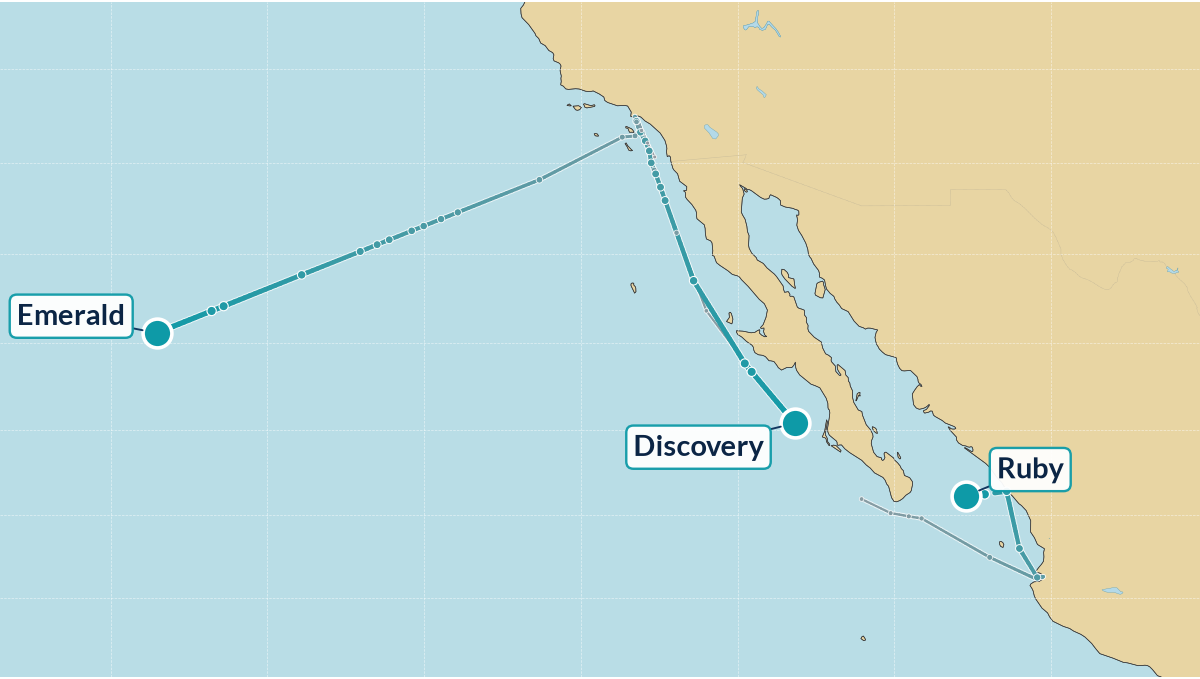
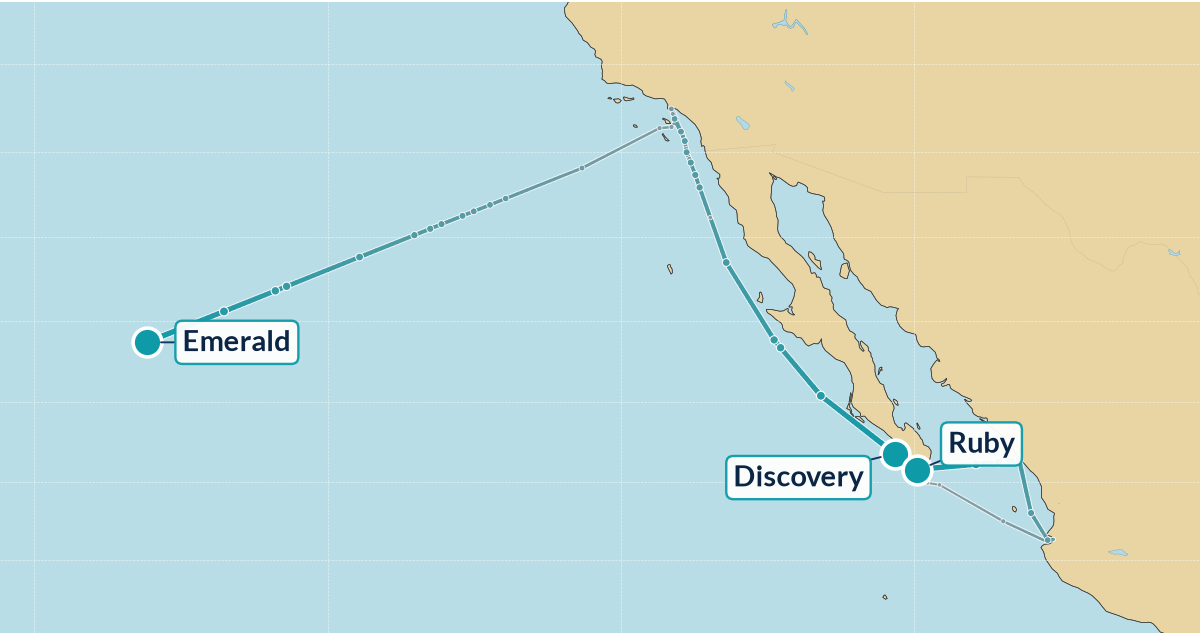
Update 10/19 09:00 PT

diff --git a/index.html b/index.html
@@ -1,48 +1,48 @@
-<!DOCTYPE html><html lang="en"><head><meta charset="utf-8"><meta name="viewport" content="width=device-width, initial-scale=1"><meta http-equiv="refresh" content="1800"><meta name="description" content="Live Princess Cruises fleet tracker"><title>Princess Patter — Sunday, October 18, 2026</title></head>
+<!DOCTYPE html><html lang="en"><head><meta charset="utf-8"><meta name="viewport" content="width=device-width, initial-scale=1"><meta http-equiv="refresh" content="1800"><meta name="description" content="Live Princess Cruises fleet tracker"><title>Princess Patter — Monday, October 19, 2026</title></head>
 <body style="margin:0;padding:0;background-color:#dee2e8;">
-<div style="display:none;max-height:0;overflow:hidden;opacity:0;color:#dee2e8;font-size:1px;line-height:1px;">Sunday, October 18, 2026 — 11:00pm PT | 17 ships | 13 at sea, 4 in port</div>
+<div style="display:none;max-height:0;overflow:hidden;opacity:0;color:#dee2e8;font-size:1px;line-height:1px;">Monday, October 19, 2026 — 8:00am PT | 17 ships | 13 at sea, 4 in port</div>
 <table role="presentation" width="100%" cellpadding="0" cellspacing="0" border="0" bgcolor="#dee2e8" style="background-color:#dee2e8;border-collapse:collapse;"><tr><td align="center" style="padding:16px 8px;">
 <table role="presentation" width="100%" cellpadding="0" cellspacing="0" border="0" bgcolor="#fdfdfb" style="width:100%;max-width:900px;background-color:#fdfdfb;border-collapse:collapse;border:1px solid #d6dae0;">
 <tr><td bgcolor="#1d3a6b" align="left" style="background-color:#1d3a6b;padding:24px 28px 24px 28px;"><div style="font-family:Georgia, 'Times New Roman', Times, serif;font-size:40px;line-height:46px;color:#ffffff;letter-spacing:0.5px;"><span style="color:#a8b6e2;">≋</span>&nbsp;Princess Patter</div></td></tr>
-<tr><td style="padding:0;"><table role="presentation" width="100%" cellpadding="0" cellspacing="0" border="0" style="border-collapse:collapse;"><tr><td height="5" bgcolor="#6a5aa8" style="background-color:#6a5aa8;height:5px;font-size:0;line-height:0;width:60%;">&nbsp;</td><td height="5" bgcolor="#2f6db5" style="background-color:#2f6db5;height:5px;font-size:0;line-height:0;width:40%;">&nbsp;</td></tr></table></td></tr><tr><td bgcolor="#1d3a6b" style="background:linear-gradient(#1d3a6b,#2f6db5);padding:10px 16px 14px;text-align:center;"><img src="regal.png?v=202610190800" alt="Regal Princess" style="width:100%;max-width:640px;height:auto;display:block;margin:0 auto;"></td></tr>
+<tr><td style="padding:0;"><table role="presentation" width="100%" cellpadding="0" cellspacing="0" border="0" style="border-collapse:collapse;"><tr><td height="5" bgcolor="#6a5aa8" style="background-color:#6a5aa8;height:5px;font-size:0;line-height:0;width:60%;">&nbsp;</td><td height="5" bgcolor="#2f6db5" style="background-color:#2f6db5;height:5px;font-size:0;line-height:0;width:40%;">&nbsp;</td></tr></table></td></tr><tr><td bgcolor="#1d3a6b" style="background:linear-gradient(#1d3a6b,#2f6db5);padding:10px 16px 14px;text-align:center;"><img src="regal.png?v=202610190900" alt="Regal Princess" style="width:100%;max-width:640px;height:auto;display:block;margin:0 auto;"></td></tr>
 <tr><td style="padding:22px 20px 6px 20px;">
-<div style="font-family:Georgia, 'Times New Roman', Times, serif;font-style:italic;font-size:20px;line-height:26px;color:#2f6db5;">Good evening!</div>
-<div style="font-family:Georgia, 'Times New Roman', Times, serif;font-weight:bold;font-size:26px;line-height:32px;color:#1d3a6b;padding-top:6px;">Sunday, October 18, 2026</div>
-<div style="font-family:Helvetica, Arial, sans-serif;font-size:16px;line-height:22px;color:#2f6db5;padding-top:4px;">11:00pm PT | 17 ships | 13 at sea, 4 in port</div>
-</td></tr><tr><td style="padding:14px 20px 0 20px;"><div style="font-family:Georgia, 'Times New Roman', Times, serif;font-style:italic;font-weight:bold;font-size:18px;color:#295aa0;padding:0 4px 4px;border-bottom:1px solid #295aa0;">pacific map</div><a href="map.png?v=202610190800"><img src="map.png?v=202610190800" alt="Pacific fleet map" style="width:100%;height:auto;display:block;margin-top:8px;border-radius:12px;border:2px solid #c8dee2;"></a></td></tr>
+<div style="font-family:Georgia, 'Times New Roman', Times, serif;font-style:italic;font-size:20px;line-height:26px;color:#2f6db5;">Good morning!</div>
+<div style="font-family:Georgia, 'Times New Roman', Times, serif;font-weight:bold;font-size:26px;line-height:32px;color:#1d3a6b;padding-top:6px;">Monday, October 19, 2026</div>
+<div style="font-family:Helvetica, Arial, sans-serif;font-size:16px;line-height:22px;color:#2f6db5;padding-top:4px;">8:00am PT | 17 ships | 13 at sea, 4 in port</div>
+</td></tr><tr><td style="padding:14px 20px 0 20px;"><div style="font-family:Georgia, 'Times New Roman', Times, serif;font-style:italic;font-weight:bold;font-size:18px;color:#295aa0;padding:0 4px 4px;border-bottom:1px solid #295aa0;">pacific map</div><a href="map.png?v=202610190900"><img src="map.png?v=202610190900" alt="Pacific fleet map" style="width:100%;height:auto;display:block;margin-top:8px;border-radius:12px;border:2px solid #c8dee2;"></a></td></tr>
 <tr><td style="padding:14px 20px 4px 20px;">
 <table role="presentation" width="100%" cellpadding="0" cellspacing="0" border="0" style="border-collapse:collapse;width:100%;font-family:Helvetica, Arial, sans-serif;font-size:15px;line-height:20px;color:#262c38;">
 <tr bgcolor="#2f6db5" style="background-color:#2f6db5;"><td style="font-size:14px;line-height:18px;font-weight:bold;color:#ffffff;text-align:left;padding:9px 8px;padding-left:10px;" colspan="2">Ship</td><td style="font-size:14px;line-height:18px;font-weight:bold;color:#ffffff;text-align:left;padding:9px 8px;">Where</td><td style="font-size:14px;line-height:18px;font-weight:bold;color:#ffffff;text-align:left;padding:9px 8px;">Next Port</td></tr>
 <tr><td colspan="4" style="padding:14px 4px 4px 4px;border-bottom:1px solid #295aa0;font-family:Georgia, 'Times New Roman', Times, serif;font-style:italic;font-weight:bold;font-size:18px;line-height:22px;color:#295aa0;">canada &amp; new england</td></tr>
-<tr bgcolor="#eef0f3" style="background-color:#eef0f3;"><td width="18" style="padding:7px 0 7px 8px;vertical-align:top;width:18px;color:#1a9a9a;font-size:18px;">&nbsp;</td><td style="padding:7px 8px;vertical-align:top;"><b style="color:#1d3a6b;">Majestic</b></td><td style="padding:7px 8px;vertical-align:top;">At Sea <span style="white-space:nowrap;font-size:12px;color:#707884;" title="Forecast high/low">☁&thinsp;55°</span> <span style="font-size:12px;color:#707884;"><span style="white-space:nowrap;">🌊 7 ft</span> &middot; <span style="white-space:nowrap;">💨 NE 21 kt</span> &middot; <span style="white-space:nowrap;">🚢 21.1 kn</span></span></td><td style="padding:7px 8px;vertical-align:top;">Boston <span style="white-space:nowrap;font-size:12px;color:#707884;" title="Forecast high/low">☁&thinsp;56°/34°</span> <span style="font-size:13px;color:#707884;">(10/19 8am)</span></td></tr>
-<tr bgcolor="#ffffff" style="background-color:#ffffff;"><td width="18" style="padding:7px 0 7px 8px;vertical-align:top;width:18px;color:#1a9a9a;font-size:18px;">&nbsp;</td><td style="padding:7px 8px;vertical-align:top;"><b style="color:#1d3a6b;">Sapphire</b></td><td style="padding:7px 8px;vertical-align:top;">At Sea <span style="white-space:nowrap;font-size:12px;color:#707884;" title="Forecast high/low">☀&thinsp;48°</span> <span style="font-size:12px;color:#707884;"><span style="white-space:nowrap;">🌊 3 ft</span> &middot; <span style="white-space:nowrap;">💨 S 22 kt</span> &middot; <span style="white-space:nowrap;">🚢 16.1 kn</span></span></td><td style="padding:7px 8px;vertical-align:top;">Charlottetown <span style="white-space:nowrap;font-size:12px;color:#707884;" title="Forecast high/low">☁&thinsp;52°/33°</span> <span style="font-size:13px;color:#707884;">(10/19 5am)</span></td></tr>
+<tr bgcolor="#eef0f3" style="background-color:#eef0f3;"><td width="18" style="padding:7px 0 7px 8px;vertical-align:top;width:18px;color:#1a9a9a;font-size:18px;">&nbsp;</td><td style="padding:7px 8px;vertical-align:top;"><b style="color:#1d3a6b;">Majestic</b></td><td style="padding:7px 8px;vertical-align:top;">Boston <span style="white-space:nowrap;font-size:12px;color:#707884;" title="Forecast high/low">☀&thinsp;55°</span> <span style="font-size:13px;color:#707884;">(5pm)</span></td><td style="padding:7px 8px;vertical-align:top;">Portland <span style="white-space:nowrap;font-size:12px;color:#707884;" title="Forecast high/low">☁&thinsp;70°/49°</span> <span style="font-size:13px;color:#707884;">(10/20 4am)</span></td></tr>
+<tr bgcolor="#ffffff" style="background-color:#ffffff;"><td width="18" style="padding:7px 0 7px 8px;vertical-align:top;width:18px;color:#1a9a9a;font-size:18px;">&nbsp;</td><td style="padding:7px 8px;vertical-align:top;"><b style="color:#1d3a6b;">Sapphire</b></td><td style="padding:7px 8px;vertical-align:top;">Charlottetown <span style="white-space:nowrap;font-size:12px;color:#707884;" title="Forecast high/low">☀&thinsp;50°</span> <span style="font-size:13px;color:#707884;">(1pm)</span></td><td style="padding:7px 8px;vertical-align:top;">Saguenay <span style="white-space:nowrap;font-size:12px;color:#707884;" title="Forecast high/low">☁&thinsp;49°/30°</span> <span style="font-size:13px;color:#707884;">(10/21 5am)</span></td></tr>
 <tr><td colspan="4" style="padding:14px 4px 4px 4px;border-bottom:1px solid #295aa0;font-family:Georgia, 'Times New Roman', Times, serif;font-style:italic;font-weight:bold;font-size:18px;line-height:22px;color:#295aa0;">caribbean</td></tr>
-<tr bgcolor="#eef0f3" style="background-color:#eef0f3;"><td width="18" style="padding:7px 0 7px 8px;vertical-align:top;width:18px;color:#1a9a9a;font-size:18px;">&nbsp;</td><td style="padding:7px 8px;vertical-align:top;"><b style="color:#1d3a6b;">Caribbean</b></td><td style="padding:7px 8px;vertical-align:top;">At Sea <span style="white-space:nowrap;font-size:12px;color:#707884;" title="Forecast high/low">☀&thinsp;81°</span> <span style="font-size:12px;color:#707884;"><span style="white-space:nowrap;">🌊 7 ft</span> &middot; <span style="white-space:nowrap;">💨 NE 18 kt</span> &middot; <span style="white-space:nowrap;">🚢 14.4 kn</span></span></td><td style="padding:7px 8px;vertical-align:top;">Oranjestad <span style="white-space:nowrap;font-size:12px;color:#707884;" title="Forecast high/low">⛈&thinsp;87°/79°</span> <span style="font-size:13px;color:#707884;">(10/22 6am)</span></td></tr>
-<tr bgcolor="#ffffff" style="background-color:#ffffff;"><td width="18" style="padding:7px 0 7px 8px;vertical-align:top;width:18px;color:#1a9a9a;font-size:18px;">&nbsp;</td><td style="padding:7px 8px;vertical-align:top;"><b style="color:#1d3a6b;">Coral</b></td><td style="padding:7px 8px;vertical-align:top;">At Sea <span style="white-space:nowrap;font-size:12px;color:#707884;" title="Forecast high/low">☀&thinsp;83°</span> <span style="font-size:12px;color:#707884;"><span style="white-space:nowrap;">🌊 2 ft</span> &middot; <span style="white-space:nowrap;">💨 E 10 kt</span></span></td><td style="padding:7px 8px;vertical-align:top;">Basseterre <span style="white-space:nowrap;font-size:12px;color:#707884;" title="Forecast high/low">🌦&thinsp;86°/78°</span> <span style="font-size:13px;color:#707884;">(10/19 4am)</span></td></tr>
-<tr bgcolor="#eef0f3" style="background-color:#eef0f3;"><td width="18" style="padding:7px 0 7px 8px;vertical-align:top;width:18px;color:#1a9a9a;font-size:18px;">&nbsp;</td><td style="padding:7px 8px;vertical-align:top;"><b style="color:#1d3a6b;">Regal</b></td><td style="padding:7px 8px;vertical-align:top;">At Sea <span style="white-space:nowrap;font-size:12px;color:#707884;" title="Forecast high/low">☁&thinsp;81°</span> <span style="font-size:12px;color:#707884;"><span style="white-space:nowrap;">🌊 5 ft</span> &middot; <span style="white-space:nowrap;">💨 NE 14 kt</span></span></td><td style="padding:7px 8px;vertical-align:top;">Amber Cove <span style="font-size:13px;color:#707884;">(10/21 5am)</span></td></tr>
-<tr bgcolor="#ffffff" style="background-color:#ffffff;"><td width="18" style="padding:7px 0 7px 8px;vertical-align:top;width:18px;color:#1a9a9a;font-size:18px;">&nbsp;</td><td style="padding:7px 8px;vertical-align:top;"><b style="color:#1d3a6b;">Star</b></td><td style="padding:7px 8px;vertical-align:top;">At Sea <span style="white-space:nowrap;font-size:12px;color:#707884;" title="Forecast high/low">☀&thinsp;85°</span> <span style="font-size:12px;color:#707884;"><span style="white-space:nowrap;">🌊 3 ft</span> &middot; <span style="white-space:nowrap;">💨 ESE 11 kt</span> &middot; <span style="white-space:nowrap;">🚢 21.2 kn</span></span></td><td style="padding:7px 8px;vertical-align:top;">Fort Lauderdale <span style="white-space:nowrap;font-size:12px;color:#707884;" title="Forecast high/low">🌦&thinsp;79°/67°</span> <span style="font-size:13px;color:#707884;">(10/20 3am)</span></td></tr>
+<tr bgcolor="#eef0f3" style="background-color:#eef0f3;"><td width="18" style="padding:7px 0 7px 8px;vertical-align:top;width:18px;color:#1a9a9a;font-size:18px;">&nbsp;</td><td style="padding:7px 8px;vertical-align:top;"><b style="color:#1d3a6b;">Caribbean</b></td><td style="padding:7px 8px;vertical-align:top;">At Sea <span style="white-space:nowrap;font-size:12px;color:#707884;" title="Forecast high/low">☀&thinsp;82°</span> <span style="font-size:12px;color:#707884;"><span style="white-space:nowrap;">🌊 8 ft</span> &middot; <span style="white-space:nowrap;">💨 ENE 15 kt</span> &middot; <span style="white-space:nowrap;">🚢 14.0 kn</span></span></td><td style="padding:7px 8px;vertical-align:top;">Oranjestad <span style="white-space:nowrap;font-size:12px;color:#707884;" title="Forecast high/low">⛈&thinsp;87°/79°</span> <span style="font-size:13px;color:#707884;">(10/22 6am)</span></td></tr>
+<tr bgcolor="#ffffff" style="background-color:#ffffff;"><td width="18" style="padding:7px 0 7px 8px;vertical-align:top;width:18px;color:#1a9a9a;font-size:18px;">&nbsp;</td><td style="padding:7px 8px;vertical-align:top;"><b style="color:#1d3a6b;">Coral</b></td><td style="padding:7px 8px;vertical-align:top;">Basseterre <span style="white-space:nowrap;font-size:12px;color:#707884;" title="Forecast high/low">🌦&thinsp;85°</span> <span style="font-size:13px;color:#707884;">(1pm)</span></td><td style="padding:7px 8px;vertical-align:top;">Fort-de-France <span style="white-space:nowrap;font-size:12px;color:#707884;" title="Forecast high/low">🌦&thinsp;87°/77°</span> <span style="font-size:13px;color:#707884;">(10/20 4am)</span></td></tr>
+<tr bgcolor="#eef0f3" style="background-color:#eef0f3;"><td width="18" style="padding:7px 0 7px 8px;vertical-align:top;width:18px;color:#1a9a9a;font-size:18px;">&nbsp;</td><td style="padding:7px 8px;vertical-align:top;"><b style="color:#1d3a6b;">Regal</b></td><td style="padding:7px 8px;vertical-align:top;">At Sea <span style="white-space:nowrap;font-size:12px;color:#707884;" title="Forecast high/low">☁&thinsp;80°</span> <span style="font-size:12px;color:#707884;"><span style="white-space:nowrap;">🌊 5 ft</span> &middot; <span style="white-space:nowrap;">💨 NE 16 kt</span></span></td><td style="padding:7px 8px;vertical-align:top;">Amber Cove <span style="font-size:13px;color:#707884;">(10/21 5am)</span></td></tr>
+<tr bgcolor="#ffffff" style="background-color:#ffffff;"><td width="18" style="padding:7px 0 7px 8px;vertical-align:top;width:18px;color:#1a9a9a;font-size:18px;">&nbsp;</td><td style="padding:7px 8px;vertical-align:top;"><b style="color:#1d3a6b;">Star</b></td><td style="padding:7px 8px;vertical-align:top;">At Sea <span style="white-space:nowrap;font-size:12px;color:#707884;" title="Forecast high/low">⛈&thinsp;79°</span> <span style="font-size:12px;color:#707884;"><span style="white-space:nowrap;">🌊 2 ft</span> &middot; <span style="white-space:nowrap;">💨 ENE 10 kt</span> &middot; <span style="white-space:nowrap;">🚢 15.5 kn</span></span></td><td style="padding:7px 8px;vertical-align:top;">Fort Lauderdale <span style="white-space:nowrap;font-size:12px;color:#707884;" title="Forecast high/low">🌦&thinsp;79°/67°</span> <span style="font-size:13px;color:#707884;">(10/20 3am)</span></td></tr>
 <tr><td colspan="4" style="padding:14px 4px 4px 4px;border-bottom:1px solid #295aa0;font-family:Georgia, 'Times New Roman', Times, serif;font-style:italic;font-weight:bold;font-size:18px;line-height:22px;color:#295aa0;">hawaii</td></tr>
-<tr bgcolor="#eef0f3" style="background-color:#eef0f3;"><td width="18" style="padding:7px 0 7px 8px;vertical-align:top;width:18px;color:#1a9a9a;font-size:18px;">&nbsp;</td><td style="padding:7px 8px;vertical-align:top;"><b style="color:#1d3a6b;">Emerald</b></td><td style="padding:7px 8px;vertical-align:top;">At Sea <span style="white-space:nowrap;font-size:12px;color:#707884;" title="Forecast high/low">☀&thinsp;68°</span> <span style="font-size:12px;color:#707884;"><span style="white-space:nowrap;">🌊 8 ft</span> &middot; <span style="white-space:nowrap;">💨 NE 14 kt</span> &middot; <span style="white-space:nowrap;">🚢 17.7 kn</span></span></td><td style="padding:7px 8px;vertical-align:top;">Hilo <span style="white-space:nowrap;font-size:12px;color:#707884;" title="Forecast high/low">🌦&thinsp;79°/65°</span> <span style="font-size:13px;color:#707884;">(10/22 11am)</span></td></tr>
+<tr bgcolor="#eef0f3" style="background-color:#eef0f3;"><td width="18" style="padding:7px 0 7px 8px;vertical-align:top;width:18px;color:#1a9a9a;font-size:18px;">&nbsp;</td><td style="padding:7px 8px;vertical-align:top;"><b style="color:#1d3a6b;">Emerald</b></td><td style="padding:7px 8px;vertical-align:top;">At Sea <span style="white-space:nowrap;font-size:12px;color:#707884;" title="Forecast high/low">☀&thinsp;70°</span> <span style="font-size:12px;color:#707884;"><span style="white-space:nowrap;">🌊 8 ft</span> &middot; <span style="white-space:nowrap;">💨 NE 15 kt</span> &middot; <span style="white-space:nowrap;">🚢 17.6 kn</span></span></td><td style="padding:7px 8px;vertical-align:top;">Hilo <span style="white-space:nowrap;font-size:12px;color:#707884;" title="Forecast high/low">🌦&thinsp;79°/65°</span> <span style="font-size:13px;color:#707884;">(10/22 11am)</span></td></tr>
 <tr><td colspan="4" style="padding:14px 4px 4px 4px;border-bottom:1px solid #295aa0;font-family:Georgia, 'Times New Roman', Times, serif;font-style:italic;font-weight:bold;font-size:18px;line-height:22px;color:#295aa0;">mexican riviera</td></tr>
-<tr bgcolor="#eef0f3" style="background-color:#eef0f3;"><td width="18" style="padding:7px 0 7px 8px;vertical-align:top;width:18px;color:#1a9a9a;font-size:18px;">&nbsp;</td><td style="padding:7px 8px;vertical-align:top;"><b style="color:#1d3a6b;">Discovery</b></td><td style="padding:7px 8px;vertical-align:top;">At Sea <span style="white-space:nowrap;font-size:12px;color:#707884;" title="Forecast high/low">☀&thinsp;81°</span> <span style="font-size:12px;color:#707884;"><span style="white-space:nowrap;">🌊 7 ft</span> &middot; <span style="white-space:nowrap;">💨 SW 3 kt</span> &middot; <span style="white-space:nowrap;">🚢 19.3 kn</span></span></td><td style="padding:7px 8px;vertical-align:top;">Cabo San Lucas <span style="white-space:nowrap;font-size:12px;color:#707884;" title="Forecast high/low">⛈&thinsp;93°/77°</span> <span style="font-size:13px;color:#707884;">(10/19 12pm)</span></td></tr>
-<tr bgcolor="#ffffff" style="background-color:#ffffff;"><td width="18" style="padding:7px 0 7px 8px;vertical-align:top;width:18px;color:#1a9a9a;font-size:18px;">&nbsp;</td><td style="padding:7px 8px;vertical-align:top;"><b style="color:#1d3a6b;">Ruby</b></td><td style="padding:7px 8px;vertical-align:top;">At Sea <span style="white-space:nowrap;font-size:12px;color:#707884;" title="Forecast high/low">☁&thinsp;87°</span> <span style="font-size:12px;color:#707884;"><span style="white-space:nowrap;">🌊 7 ft</span> &middot; <span style="white-space:nowrap;">💨 NNE 8 kt</span> &middot; <span style="white-space:nowrap;">🚢 16.8 kn</span></span></td><td style="padding:7px 8px;vertical-align:top;">Cabo San Lucas <span style="white-space:nowrap;font-size:12px;color:#707884;" title="Forecast high/low">🌦&thinsp;91°/77°</span> <span style="font-size:13px;color:#707884;">(10/20 7am)</span></td></tr>
+<tr bgcolor="#eef0f3" style="background-color:#eef0f3;"><td width="18" style="padding:7px 0 7px 8px;vertical-align:top;width:18px;color:#1a9a9a;font-size:18px;">&nbsp;</td><td style="padding:7px 8px;vertical-align:top;"><b style="color:#1d3a6b;">Discovery</b></td><td style="padding:7px 8px;vertical-align:top;">At Sea <span style="white-space:nowrap;font-size:12px;color:#707884;" title="Forecast high/low">☀&thinsp;85°</span> <span style="font-size:12px;color:#707884;"><span style="white-space:nowrap;">🌊 6 ft</span> &middot; <span style="white-space:nowrap;">💨 N 12 kt</span> &middot; <span style="white-space:nowrap;">🚢 19.4 kn</span></span></td><td style="padding:7px 8px;vertical-align:top;">Cabo San Lucas <span style="white-space:nowrap;font-size:12px;color:#707884;" title="Forecast high/low">⛈&thinsp;93°/77°</span> <span style="font-size:13px;color:#707884;">(10/19 12pm)</span></td></tr>
+<tr bgcolor="#ffffff" style="background-color:#ffffff;"><td width="18" style="padding:7px 0 7px 8px;vertical-align:top;width:18px;color:#1a9a9a;font-size:18px;">&nbsp;</td><td style="padding:7px 8px;vertical-align:top;"><b style="color:#1d3a6b;">Ruby</b></td><td style="padding:7px 8px;vertical-align:top;">At Sea <span style="white-space:nowrap;font-size:12px;color:#707884;" title="Forecast high/low">☀&thinsp;85°</span> <span style="font-size:12px;color:#707884;"><span style="white-space:nowrap;">🌊 7 ft</span> &middot; <span style="white-space:nowrap;">💨 SW 2 kt</span> &middot; <span style="white-space:nowrap;">🚢 14.3 kn</span></span></td><td style="padding:7px 8px;vertical-align:top;">Cabo San Lucas <span style="white-space:nowrap;font-size:12px;color:#707884;" title="Forecast high/low">🌦&thinsp;91°/77°</span> <span style="font-size:13px;color:#707884;">(10/20 7am)</span></td></tr>
 <tr><td colspan="4" style="padding:14px 4px 4px 4px;border-bottom:1px solid #295aa0;font-family:Georgia, 'Times New Roman', Times, serif;font-style:italic;font-weight:bold;font-size:18px;line-height:22px;color:#295aa0;">asia</td></tr>
-<tr bgcolor="#eef0f3" style="background-color:#eef0f3;"><td width="18" style="padding:7px 0 7px 8px;vertical-align:top;width:18px;color:#1a9a9a;font-size:18px;">&nbsp;</td><td style="padding:7px 8px;vertical-align:top;"><b style="color:#1d3a6b;">Diamond</b></td><td style="padding:7px 8px;vertical-align:top;">Yokohama <span style="white-space:nowrap;font-size:12px;color:#707884;" title="Forecast high/low">🌙&thinsp;69°</span> <span style="font-size:13px;color:#707884;">(11pm)</span></td><td style="padding:7px 8px;vertical-align:top;">Nagasaki <span style="white-space:nowrap;font-size:12px;color:#707884;" title="Forecast high/low">⛅&thinsp;80°/71°</span> <span style="font-size:13px;color:#707884;">(10/20 6pm)</span></td></tr>
+<tr bgcolor="#eef0f3" style="background-color:#eef0f3;"><td width="18" style="padding:7px 0 7px 8px;vertical-align:top;width:18px;color:#1a9a9a;font-size:18px;">&nbsp;</td><td style="padding:7px 8px;vertical-align:top;"><b style="color:#1d3a6b;">Diamond</b></td><td style="padding:7px 8px;vertical-align:top;">At Sea <span style="white-space:nowrap;font-size:12px;color:#707884;" title="Forecast high/low">🌧&thinsp;76°</span> <span style="font-size:12px;color:#707884;"><span style="white-space:nowrap;">🌊 4 ft</span> &middot; <span style="white-space:nowrap;">💨 SSW 8 kt</span> &middot; <span style="white-space:nowrap;">🚢 19.9 kn</span></span></td><td style="padding:7px 8px;vertical-align:top;">Nagasaki <span style="white-space:nowrap;font-size:12px;color:#707884;" title="Forecast high/low">⛅&thinsp;80°/71°</span> <span style="font-size:13px;color:#707884;">(10/20 6pm)</span></td></tr>
 <tr bgcolor="#ffffff" style="background-color:#ffffff;"><td width="18" style="padding:7px 0 7px 8px;vertical-align:top;width:18px;color:#1a9a9a;font-size:18px;">&nbsp;</td><td style="padding:7px 8px;vertical-align:top;"><b style="color:#1d3a6b;">Royal</b></td><td style="padding:7px 8px;vertical-align:top;">Singapore <span style="font-size:13px;color:#707884;">(Drydock)</span></td><td style="padding:7px 8px;vertical-align:top;">Drydock <span style="font-size:13px;color:#707884;">(to 11/1)</span></td></tr>
 <tr><td colspan="4" style="padding:14px 4px 4px 4px;border-bottom:1px solid #295aa0;font-family:Georgia, 'Times New Roman', Times, serif;font-style:italic;font-weight:bold;font-size:18px;line-height:22px;color:#295aa0;">australia &amp; new zealand</td></tr>
-<tr bgcolor="#eef0f3" style="background-color:#eef0f3;"><td width="18" style="padding:7px 0 7px 8px;vertical-align:top;width:18px;color:#1a9a9a;font-size:18px;">&nbsp;</td><td style="padding:7px 8px;vertical-align:top;"><b style="color:#1d3a6b;">Crown</b></td><td style="padding:7px 8px;vertical-align:top;">At Sea <span style="white-space:nowrap;font-size:12px;color:#707884;" title="Forecast high/low">🌙&thinsp;68°</span> <span style="font-size:12px;color:#707884;"><span style="white-space:nowrap;">🌊 8 ft</span> &middot; <span style="white-space:nowrap;">💨 S 18 kt</span> &middot; <span style="white-space:nowrap;">🚢 20.3 kn</span></span></td><td style="padding:7px 8px;vertical-align:top;">Broome <span style="white-space:nowrap;font-size:12px;color:#707884;" title="Forecast high/low">☀&thinsp;88°/81°</span> <span style="font-size:13px;color:#707884;">(10/20 7pm)</span></td></tr>
+<tr bgcolor="#eef0f3" style="background-color:#eef0f3;"><td width="18" style="padding:7px 0 7px 8px;vertical-align:top;width:18px;color:#1a9a9a;font-size:18px;">&nbsp;</td><td style="padding:7px 8px;vertical-align:top;"><b style="color:#1d3a6b;">Crown</b></td><td style="padding:7px 8px;vertical-align:top;">At Sea <span style="white-space:nowrap;font-size:12px;color:#707884;" title="Forecast high/low">🌙&thinsp;71°</span> <span style="font-size:12px;color:#707884;"><span style="white-space:nowrap;">🌊 9 ft</span> &middot; <span style="white-space:nowrap;">💨 S 19 kt</span> &middot; <span style="white-space:nowrap;">🚢 20.1 kn</span></span></td><td style="padding:7px 8px;vertical-align:top;">Broome <span style="white-space:nowrap;font-size:12px;color:#707884;" title="Forecast high/low">☀&thinsp;88°/81°</span> <span style="font-size:13px;color:#707884;">(10/20 7pm)</span></td></tr>
 <tr><td colspan="4" style="padding:14px 4px 4px 4px;border-bottom:1px solid #295aa0;font-family:Georgia, 'Times New Roman', Times, serif;font-style:italic;font-weight:bold;font-size:18px;line-height:22px;color:#295aa0;">mediterranean</td></tr>
-<tr bgcolor="#eef0f3" style="background-color:#eef0f3;"><td width="18" style="padding:7px 0 7px 8px;vertical-align:top;width:18px;color:#1a9a9a;font-size:18px;">&nbsp;</td><td style="padding:7px 8px;vertical-align:top;"><b style="color:#1d3a6b;">Enchanted</b></td><td style="padding:7px 8px;vertical-align:top;">At Sea <span style="white-space:nowrap;font-size:12px;color:#707884;" title="Forecast high/low">☁&thinsp;73°</span> <span style="font-size:12px;color:#707884;"><span style="white-space:nowrap;">🌊 2 ft</span> &middot; <span style="white-space:nowrap;">💨 S 6 kt</span> &middot; <span style="white-space:nowrap;">🚢 18.7 kn</span></span></td><td style="padding:7px 8px;vertical-align:top;">Civitavecchia <span style="white-space:nowrap;font-size:12px;color:#707884;" title="Forecast high/low">☁&thinsp;73°/62°</span> <span style="font-size:13px;color:#707884;">(10/19 9pm)</span></td></tr>
-<tr bgcolor="#ffffff" style="background-color:#ffffff;"><td width="18" style="padding:7px 0 7px 8px;vertical-align:top;width:18px;color:#1a9a9a;font-size:18px;">&nbsp;</td><td style="padding:7px 8px;vertical-align:top;"><b style="color:#1d3a6b;">Sun</b></td><td style="padding:7px 8px;vertical-align:top;">At Sea <span style="white-space:nowrap;font-size:12px;color:#707884;" title="Forecast high/low">☀&thinsp;72°</span> <span style="font-size:12px;color:#707884;"><span style="white-space:nowrap;">🌊 2 ft</span> &middot; <span style="white-space:nowrap;">💨 SE 11 kt</span> &middot; <span style="white-space:nowrap;">🚢 18.6 kn</span></span></td><td style="padding:7px 8px;vertical-align:top;">Chania <span style="white-space:nowrap;font-size:12px;color:#707884;" title="Forecast high/low">☁&thinsp;72°/59°</span> <span style="font-size:13px;color:#707884;">(10/19 10pm)</span></td></tr>
+<tr bgcolor="#eef0f3" style="background-color:#eef0f3;"><td width="18" style="padding:7px 0 7px 8px;vertical-align:top;width:18px;color:#1a9a9a;font-size:18px;">&nbsp;</td><td style="padding:7px 8px;vertical-align:top;"><b style="color:#1d3a6b;">Enchanted</b></td><td style="padding:7px 8px;vertical-align:top;">At Sea <span style="white-space:nowrap;font-size:12px;color:#707884;" title="Forecast high/low">☀&thinsp;72°</span> <span style="font-size:12px;color:#707884;"><span style="white-space:nowrap;">🌊 1 ft</span> &middot; <span style="white-space:nowrap;">💨 ESE 9 kt</span> &middot; <span style="white-space:nowrap;">🚢 18.1 kn</span></span></td><td style="padding:7px 8px;vertical-align:top;">Civitavecchia <span style="white-space:nowrap;font-size:12px;color:#707884;" title="Forecast high/low">☁&thinsp;73°/62°</span> <span style="font-size:13px;color:#707884;">(10/19 9pm)</span></td></tr>
+<tr bgcolor="#ffffff" style="background-color:#ffffff;"><td width="18" style="padding:7px 0 7px 8px;vertical-align:top;width:18px;color:#1a9a9a;font-size:18px;">&nbsp;</td><td style="padding:7px 8px;vertical-align:top;"><b style="color:#1d3a6b;">Sun</b></td><td style="padding:7px 8px;vertical-align:top;">At Sea <span style="white-space:nowrap;font-size:12px;color:#707884;" title="Forecast high/low">🌙&thinsp;70°</span> <span style="font-size:12px;color:#707884;"><span style="white-space:nowrap;">🌊 0 ft</span> &middot; <span style="white-space:nowrap;">💨 NW 2 kt</span> &middot; <span style="white-space:nowrap;">🚢 18.6 kn</span></span></td><td style="padding:7px 8px;vertical-align:top;">Chania <span style="white-space:nowrap;font-size:12px;color:#707884;" title="Forecast high/low">☁&thinsp;72°/59°</span> <span style="font-size:13px;color:#707884;">(10/19 10pm)</span></td></tr>
 <tr><td colspan="4" style="padding:14px 4px 4px 4px;border-bottom:1px solid #295aa0;font-family:Georgia, 'Times New Roman', Times, serif;font-style:italic;font-weight:bold;font-size:18px;line-height:22px;color:#295aa0;">northern europe</td></tr>
-<tr bgcolor="#eef0f3" style="background-color:#eef0f3;"><td width="18" style="padding:7px 0 7px 8px;vertical-align:top;width:18px;color:#1a9a9a;font-size:18px;">&nbsp;</td><td style="padding:7px 8px;vertical-align:top;"><b style="color:#1d3a6b;">Sky</b></td><td style="padding:7px 8px;vertical-align:top;">Stavanger <span style="white-space:nowrap;font-size:12px;color:#707884;" title="Forecast high/low">☀&thinsp;53°</span></td><td style="padding:7px 8px;vertical-align:top;">Molde <span style="white-space:nowrap;font-size:12px;color:#707884;" title="Forecast high/low">☁&thinsp;53°/40°</span> <span style="font-size:13px;color:#707884;">(10/19 11pm)</span></td></tr>
+<tr bgcolor="#eef0f3" style="background-color:#eef0f3;"><td width="18" style="padding:7px 0 7px 8px;vertical-align:top;width:18px;color:#1a9a9a;font-size:18px;">&nbsp;</td><td style="padding:7px 8px;vertical-align:top;"><b style="color:#1d3a6b;">Sky</b></td><td style="padding:7px 8px;vertical-align:top;">At Sea <span style="white-space:nowrap;font-size:12px;color:#707884;" title="Forecast high/low">☁&thinsp;53°</span> <span style="font-size:12px;color:#707884;"><span style="white-space:nowrap;">🌊 5 ft</span> &middot; <span style="white-space:nowrap;">💨 SSE 18 kt</span> &middot; <span style="white-space:nowrap;">🚢 16.6 kn</span></span></td><td style="padding:7px 8px;vertical-align:top;">Molde <span style="white-space:nowrap;font-size:12px;color:#707884;" title="Forecast high/low">☁&thinsp;53°/40°</span> <span style="font-size:13px;color:#707884;">(10/19 11pm)</span></td></tr>
 <tr><td colspan="4" style="padding:14px 4px 4px 4px;border-bottom:1px solid #295aa0;font-family:Georgia, 'Times New Roman', Times, serif;font-style:italic;font-weight:bold;font-size:18px;line-height:22px;color:#295aa0;">tahiti &amp; south pacific</td></tr>
-<tr bgcolor="#eef0f3" style="background-color:#eef0f3;"><td width="18" style="padding:7px 0 7px 8px;vertical-align:top;width:18px;color:#1a9a9a;font-size:18px;">&nbsp;</td><td style="padding:7px 8px;vertical-align:top;"><b style="color:#1d3a6b;">Grand</b></td><td style="padding:7px 8px;vertical-align:top;">At Sea <span style="white-space:nowrap;font-size:12px;color:#707884;" title="Forecast high/low">☁&thinsp;84°</span> <span style="font-size:12px;color:#707884;"><span style="white-space:nowrap;">🌊 6 ft</span> &middot; <span style="white-space:nowrap;">💨 NW 4 kt</span> &middot; <span style="white-space:nowrap;">🚢 18.2 kn</span></span></td><td style="padding:7px 8px;vertical-align:top;">Apia <span style="white-space:nowrap;font-size:12px;color:#707884;" title="Forecast high/low">🌦&thinsp;83°/72°</span> <span style="font-size:13px;color:#707884;">(10/20 12pm)</span></td></tr>
+<tr bgcolor="#eef0f3" style="background-color:#eef0f3;"><td width="18" style="padding:7px 0 7px 8px;vertical-align:top;width:18px;color:#1a9a9a;font-size:18px;">&nbsp;</td><td style="padding:7px 8px;vertical-align:top;"><b style="color:#1d3a6b;">Grand</b></td><td style="padding:7px 8px;vertical-align:top;">At Sea <span style="white-space:nowrap;font-size:12px;color:#707884;" title="Forecast high/low">☁&thinsp;82°</span> <span style="font-size:12px;color:#707884;"><span style="white-space:nowrap;">🌊 6 ft</span> &middot; <span style="white-space:nowrap;">💨 SSE 2 kt</span> &middot; <span style="white-space:nowrap;">🚢 19.0 kn</span></span></td><td style="padding:7px 8px;vertical-align:top;">Apia <span style="white-space:nowrap;font-size:12px;color:#707884;" title="Forecast high/low">🌦&thinsp;83°/72°</span> <span style="font-size:13px;color:#707884;">(10/20 12pm)</span></td></tr>
 <tr><td colspan="4" style="padding:14px 4px 4px 4px;border-bottom:1px solid #295aa0;font-family:Georgia, 'Times New Roman', Times, serif;font-style:italic;font-weight:bold;font-size:18px;line-height:22px;color:#295aa0;">transatlantic</td></tr>
-<tr bgcolor="#eef0f3" style="background-color:#eef0f3;"><td width="18" style="padding:7px 0 7px 8px;vertical-align:top;width:18px;color:#1a9a9a;font-size:18px;">&nbsp;</td><td style="padding:7px 8px;vertical-align:top;"><b style="color:#1d3a6b;">Island</b></td><td style="padding:7px 8px;vertical-align:top;">Cartagena <span style="white-space:nowrap;font-size:12px;color:#707884;" title="Forecast high/low">☁&thinsp;87°</span> <span style="font-size:13px;color:#707884;">(10/19 7am)</span></td><td style="padding:7px 8px;vertical-align:top;">Palma <span style="white-space:nowrap;font-size:12px;color:#707884;" title="Forecast high/low">⛈&thinsp;75°/65°</span> <span style="font-size:13px;color:#707884;">(10/19 11pm)</span></td></tr>
+<tr bgcolor="#eef0f3" style="background-color:#eef0f3;"><td width="18" style="padding:7px 0 7px 8px;vertical-align:top;width:18px;color:#1a9a9a;font-size:18px;">&nbsp;</td><td style="padding:7px 8px;vertical-align:top;"><b style="color:#1d3a6b;">Island</b></td><td style="padding:7px 8px;vertical-align:top;">At Sea <span style="white-space:nowrap;font-size:12px;color:#707884;" title="Forecast high/low">☁&thinsp;72°</span> <span style="font-size:12px;color:#707884;"><span style="white-space:nowrap;">🌊 2 ft</span> &middot; <span style="white-space:nowrap;">💨 NE 4 kt</span> &middot; <span style="white-space:nowrap;">🚢 15.4 kn</span></span></td><td style="padding:7px 8px;vertical-align:top;">Palma <span style="white-space:nowrap;font-size:12px;color:#707884;" title="Forecast high/low">⛈&thinsp;73°/65°</span> <span style="font-size:13px;color:#707884;">(10/19 11pm)</span></td></tr>
 </table>
 <div style="font-family:Helvetica, Arial, sans-serif;font-size:13px;line-height:18px;color:#707884;padding:8px 4px 0 4px;"><span style="color:#d6a214;">&#9733;</span> = maiden call (a ship’s first-ever visit to that port)<br>Maiden calls ahead: <b style="color:#966c00;">Star – Celebration Key 11/1</b></div>
 </td></tr>
 <tr><td align="center" style="padding:22px 20px 6px 20px;font-family:Georgia, 'Times New Roman', Times, serif;font-style:italic;font-size:17px;line-height:24px;color:#295aa0;text-align:center;">“Bon voyage!”</td></tr>
-<tr><td align="center" style="padding:2px 20px 24px 20px;font-family:Helvetica, Arial, sans-serif;font-size:12px;line-height:18px;color:#707884;text-align:center;">Fleet positions from Pavlus AIS plus published schedules. Dates/times PT; ~ = AIS estimate.<br>Page updated 10/19/26 8:00am PT after each fleet check-in.</td></tr>
+<tr><td align="center" style="padding:2px 20px 24px 20px;font-family:Helvetica, Arial, sans-serif;font-size:12px;line-height:18px;color:#707884;text-align:center;">Fleet positions from Pavlus AIS plus published schedules. Dates/times PT; ~ = AIS estimate.<br>Page updated 10/19/26 9:00am PT after each fleet check-in.</td></tr>
 </table></td></tr></table></body></html>
